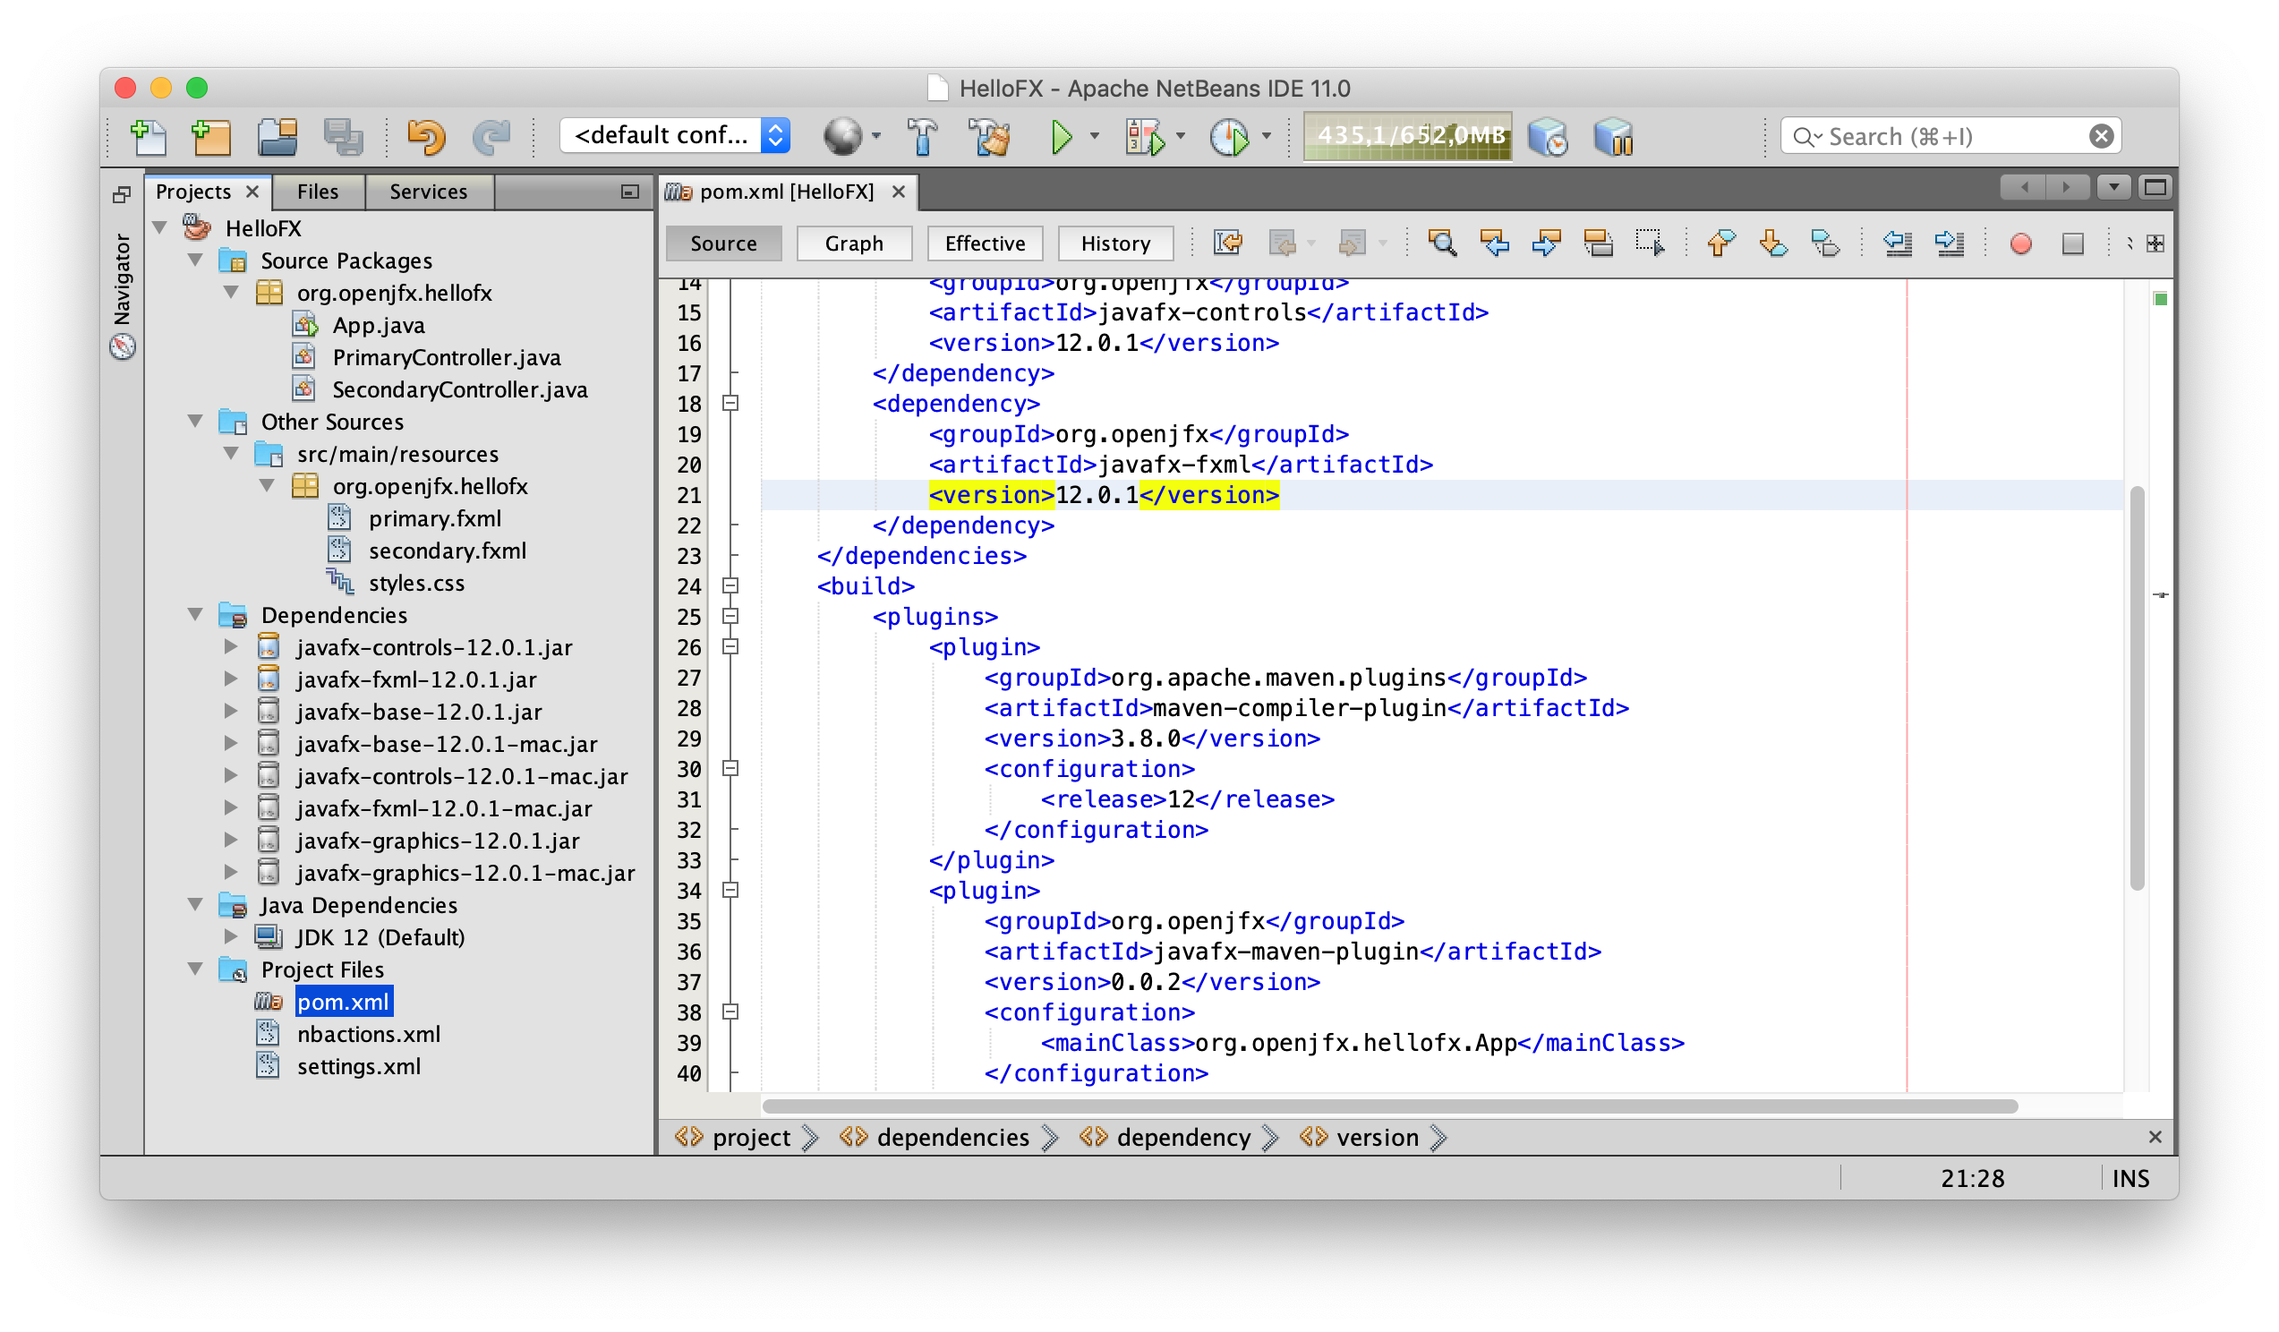
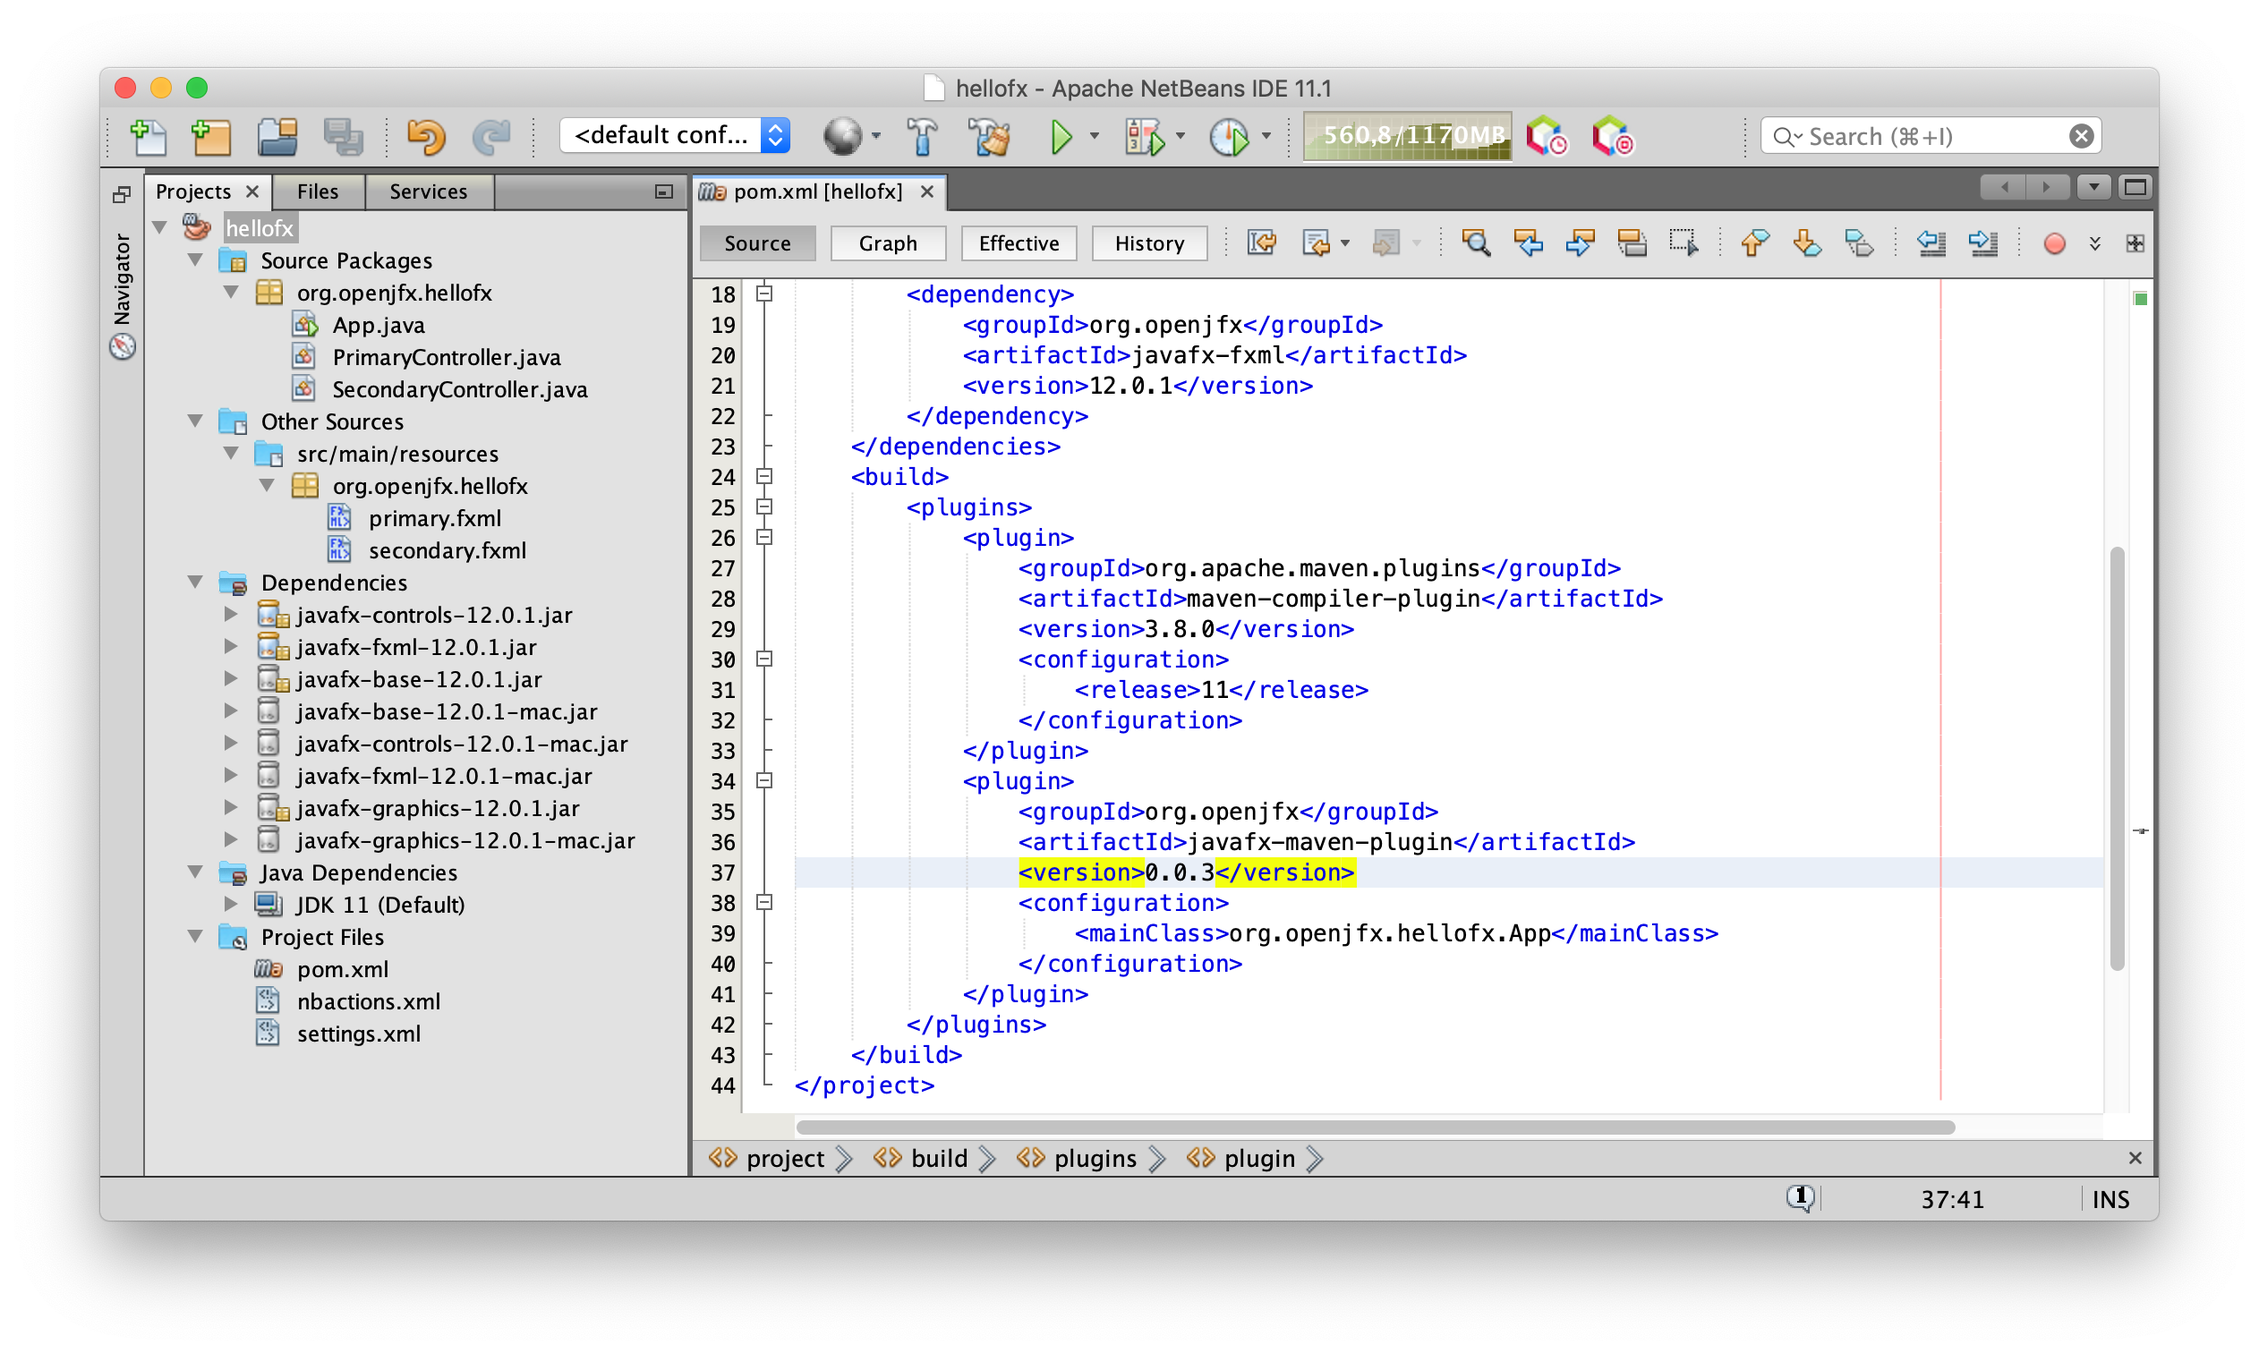
#107 Update docs with latest versions

diff --git a/ide-netbeans.html b/ide-netbeans.html
@@ -1,8 +1,8 @@
 <h2>JavaFX <span class="JFX_MAJOR">11</span> and NetBeans</h2>
 
 <p>This section explains how to use Java <span class="JDK_MAJOR">11</span> and JavaFX <span class="JFX_MAJOR">11</span> from NetBeans. 
-    Apache NetBeans 11.0 was used for the following screenshots. It can be downloaded from
-    <a href="https://netbeans.apache.org/download/nb110/nb110.html" target="_blank">here</a>.
+    Apache NetBeans 11.1 was used for the following screenshots. It can be downloaded from
+    <a href="https://netbeans.apache.org/download/nb111/nb111.html" target="_blank">here</a>.
 </p>
 
 <p>
@@ -123,39 +123,38 @@ Error: JavaFX runtime components are missing, and are required to run this appli
     
 <h5>5. Add VM options</h5>
 
-
 <p>
-    To solve the issue, go to <kbd>Properties -> Libraries -> Run -> Modulepath -> + -> Add Library </kbd> and
-    add the <kbd>JavaFX12</kbd> library.
-
-    <a href="images/ide/netbeans/ide/netbeans06.png" target="_blank"><img src="images/ide/netbeans/ide/netbeans06.png" alt="ModulePath"/></a>
-
-    Click OK.
-
+    To solve the issue, go to <kbd>Properties -> Run</kbd> and add these VM options:
 </p>
 
-<p>
-    Now go to <kbd>Properties -> Run</kbd> and add this VM option:
-</p>
 
-<pre><code>
---add-modules javafx.controls,javafx.fxml
+<ul class="nav nav-tabs">
+    <li class="nav-item">
+        <a class="nav-link active" href="#nix-nb-non-ide-1" data-toggle="tab">Linux/Mac</a>
+    </li>
+    <li class="nav-item">
+        <a class="nav-link" href="#win-nb-non-ide-1" data-toggle="tab">Windows</a>
+    </li>
+</ul>
+<div class="tab-content">
+    <div class="tab-pane active" id="nix-nb-non-ide-1">
+<pre class="no-border-radius"><code>
+--module-path /path/to/javafx-sdk-12/lib --add-modules javafx.controls,javafx.fxml
 </code></pre>
+    </div>
+    <div class="tab-pane" id="win-nb-non-ide-1">
+<pre><code>
+--module-path "\path\to\javafx-sdk-12\lib" --add-modules javafx.controls,javafx.fxml
+</code></pre>
+    </div>
+</div>
 
 <p>
-    <a href="images/ide/netbeans/ide/netbeans07.png" target="_blank"><img src="images/ide/netbeans/ide/netbeans07.png" alt="VM options"/></a>
+    <a href="images/ide/netbeans/ide/netbeans06.png" target="_blank"><img src="images/ide/netbeans/ide/netbeans06.png" alt="VM options"/></a>
 
     Click apply and close the dialog.
 
 </p>
-
-<div class="alert alert-danger">
-    <strong>Note: </strong>
-    If the <kbd>JavaFX12</kbd> library path is added to the <kbd>--module-path</kbd> VM option as explained
-    for the rest of the samples in these documents, the project won't run, since NetBeans will override
-    the module-path with an empty path. So that is why it has to be added to the <kbd>Libraries -> Run -> modulepath</kbd>
-    options instead.
-</div>
 
 <h5>6. Run the project</h5>
 
@@ -201,7 +200,7 @@ Error: JavaFX runtime components are missing, and are required to run this appli
 
 <p>
     Verify it includes the <kbd>javafx.controls</kbd> and <kbd>javafx.fxml</kbd> dependencies, update their version to <span class="JFX_VERSION">12</span>,
-    and verify it includes the <kbd>javafx-maven-plugin</kbd>. Note that Maven manages
+    and verify it includes the <kbd>javafx-maven-plugin</kbd> (update the version to <span class="JFX_MVN_PLUGIN_VERSION">0.0.1</span>). Note that Maven manages
     the required dependencies: it will add <kbd>javafx.base</kbd> and
     <kbd>javafx.graphics</kbd> that are required by <kbd>javafx.controls</kbd> and <kbd>javafx.fxml</kbd>,
     but most important, it will add the required classifier based on your platform, downloading
@@ -247,6 +246,10 @@ Error: JavaFX runtime components are missing, and are required to run this appli
     You can also open a terminal and run <kbd>mvn clean javafx:run</kbd> to run the project.
 </p>
 
+<p>Finally, note that you can get a similar built-in sample from <kbd>NetBeans -> File -> New Project... -> Samples -> OpenJFX</kbd></p>
+
+<a href="images/ide/netbeans/maven/netbeans06.png" target="_blank"><img src="images/ide/netbeans/maven/netbeans06.png" alt="NetBeans Maven Sample"/></a>
+
 <div id="NB-Gradle"></div><h4>Gradle</h4>
 
 <p>
@@ -287,7 +290,6 @@ Error: JavaFX runtime components are missing, and are required to run this appli
 </p>
 <pre><code>
 javafx {
-    version = "<span class="JFX_VERSION">12</span>"
     modules = [ 'javafx.controls', 'javafx.fxml' ]
 }
 </code></pre>
@@ -381,6 +383,8 @@ gradlew run
 <p>
     Go to <kbd>Properties -> Libraries -> Compile -> Module-path -> + -> Add Library </kbd> and 
     add the <kbd>JavaFX12</kbd> library.
+
+    <a href="images/ide/netbeans/modular/ide/netbeans00.png" target="_blank"><img src="images/ide/netbeans/modular/ide/netbeans00.png" alt="JavaFX12 Library"/></a>
 </p>
 
 <h5>3. Edit the module-info class</h5>
@@ -485,6 +489,7 @@ dist\jlink\HelloFX\bin\HelloFX
 
     <a href="images/ide/netbeans/modular/maven/netbeans03.png" target="_blank"><img src="images/ide/netbeans/modular/maven/netbeans03.png" alt="Archetype options"/></a>
 
+    Update the JavaFX version to <span class="JFX_VERSION">12</span> and the plugin version to <span class="JFX_MVN_PLUGIN_VERSION">0.0.1</span>.
     Click finish and the project will be created and opened.
 </p>
 
@@ -495,7 +500,7 @@ dist\jlink\HelloFX\bin\HelloFX
 </p>
 
 <p>
-    Verify it includes the <kbd>javafx.controls</kbd> and <kbd>javafx.fxml</kbd> dependencies, update their version to <span class="JFX_VERSION">12</span>,
+    Verify it includes the <kbd>javafx.controls</kbd> and <kbd>javafx.fxml</kbd> dependencies,
     and verify it includes the <kbd>javafx-maven-plugin</kbd>. Note that Maven manages
     the required dependencies: it will add <kbd>javafx.base</kbd> and
     <kbd>javafx.graphics</kbd> that are required by <kbd>javafx.controls</kbd> and <kbd>javafx.fxml</kbd>,
@@ -586,6 +591,10 @@ target\hellofx\bin\launcher
     </div>
 </div>
 
+<p>Finally, note that you can get a similar built-in sample from <kbd>NetBeans -> File -> New Project... -> Samples -> OpenJFX</kbd></p>
+
+<a href="images/ide/netbeans/maven/netbeans06.png" target="_blank"><img src="images/ide/netbeans/maven/netbeans06.png" alt="NetBeans Maven Sample"/></a>
+
 <div id="NB-Mod-Gradle"></div><h4>Gradle</h4>
 
 <p>
@@ -596,36 +605,39 @@ target\hellofx\bin\launcher
 
 <h5>1. Create a Gradle project</h5>
 
-<div class="alert alert-danger">
-    <strong>Note: </strong>
-    The built-in Gradle plugin doesn't support modular projects with external modular dependencies yet.
-    You can either uninstall it or
-    keep <a href="https://netbeans.apache.org/download/nb100/nb100.html">NetBeans 10</a> installed, and then
-    install the Gradle plugin for NetBeans 2.0.2, from the GitHub
-    <a href="https://github.com/kelemen/netbeans-gradle-project/releases" target="_blank">repository</a>.
-    Since the former requires administrator permissions and doesn't allow switching plugins easily, the latter is the
-    recommended option.
-</div>
-
 <p>
-    Create a <kbd>Gradle -> Single Gradle Project</kbd> with Java.
+    Create a <kbd>Java with Gradle -> Java Application</kbd> project.
+    <a href="images/ide/netbeans/gradle/netbeans01.png" target="_blank"><img src="images/ide/netbeans/gradle/netbeans01.png" alt="Create a Gradle project"/></a>
 
-    <a href="images/ide/netbeans/modular/gradle/netbeans00.png" target="_blank"><img src="images/ide/netbeans/modular/gradle/netbeans00.png" alt="Single Gradle project"/></a>
+    Provide the name of the project, like <kbd>HelloFX</kbd> and a location for the project, provide
+    the package name, like <kbd>org.openjfx</kbd> and the main class, like <kbd>MainApp</kbd>. Finally, select
+    <kbd>Initialize Gradle Wrapper</kbd>.
 
-    Then provide a name to the project, like <kbd>HelloFX</kbd>, a location for the project, and the main class name: <kbd>org.openjfx.MainApp</kbd>.
+    The project is created and opened.
 </p>
 
 <h5>2. Modify the build</h5>
 
 <p>
-    Edit the <kbd>build.gradle</kbd> file and replace it with this 
+    Edit the <kbd>build.gradle</kbd> file and replace it with this
     <a class="samples" href="https://github.com/openjfx/samples/blob/master/IDE/NetBeans/Modular/Gradle/hellofx/build.gradle" target="_blank">build</a> file.
 </p>
 <p>
-    Note the use of the <kbd>org.openjfx.javafxplugin</kbd> plugin, that removes the necessity of adding the 
-    JavaFX dependencies and setting the module-path for the compile and run task for them.
-    
-    <a href="images/ide/netbeans/modular/gradle/netbeans01.png" target="_blank"><img src="images/ide/netbeans/modular/gradle/netbeans01.png" alt="Update the build"/></a>
+    We can declare the required JavaFX modules in the <kbd>build.gradle</kbd> file using the JavaFX gradle plugin:
+</p>
+
+<pre><code>
+javafx {
+    modules = [ 'javafx.controls', 'javafx.fxml' ]
+}
+</code></pre>
+
+<p>
+    Save the project and you will get the JavaFX dependencies.
+
+    <a href="images/ide/netbeans/gradle/netbeans02.png" target="_blank"><img src="images/ide/netbeans/gradle/netbeans02.png" alt="Update the build"/></a>
+
+    As for any other Gradle dependencies, these jars can be found in the local <kbd>.gradle</kbd> repository.
 </p>
 
 <h5>3. Add the module-info class</h5>
@@ -635,7 +647,7 @@ target\hellofx\bin\launcher
     Since FXML uses reflection to access the controller in the module, this has to be opened to <kbd>javafx.fxml</kbd>. Finally,
     export the package <kbd>org.openjfx</kbd>.
     
-    <a href="images/ide/netbeans/modular/gradle/netbeans02.png" target="_blank"><img src="images/ide/netbeans/modular/gradle/netbeans02.png" alt="module-info"/></a>
+    <a href="images/ide/netbeans/modular/gradle/netbeans03.png" target="_blank"><img src="images/ide/netbeans/modular/gradle/netbeans03.png" alt="module-info"/></a>
 
     Reload the project to take into account all the changes in the gradle project.
 </p>
@@ -648,6 +660,9 @@ target\hellofx\bin\launcher
     and the <a class="samples" href="https://github.com/openjfx/samples/blob/master/IDE/NetBeans/Modular/Gradle/hellofx/src/main/resources/org/openjfx/scene.fxml" target="_blank">FXML</a> and 
     the <a class="samples" href="https://github.com/openjfx/samples/blob/master/IDE/NetBeans/Modular/Gradle/hellofx/src/main/resources/org/openjfx/styles.css" target="_blank">css</a>
     files.
+
+    <a href="images/ide/netbeans/modular/gradle/netbeans04.png" target="_blank"><img src="images/ide/netbeans/modular/gradle/netbeans04.png" alt="Source files"/></a>
+
 </p>
 
 <h5>5. Run the project</h5>
@@ -695,7 +710,6 @@ plugins {
 }
 
 javafx {
-    version = "<span class="JFX_VERSION">12</span>"
     modules = [ 'javafx.controls', 'javafx.fxml' ]
 }
 

diff --git a/ide-eclipse.html b/ide-eclipse.html
@@ -197,7 +197,8 @@ is not selected.
     <a href="images/ide/eclipse/maven/eclipse02.png" target="_blank"><img src="images/ide/eclipse/maven/eclipse02.png" alt="JavaFX Maven archetypes"/></a>
 
     Provide the groupId, like <kbd>org.openjfx</kbd>, the artifactId, like <kbd>hellofx</kbd>.
-    You can edit the <kbd>javafx-version</kbd> property, and set it to <span class="JFX_VERSION">11</span>.
+    You can edit the <kbd>javafx-version</kbd> property, and set it to <span class="JFX_VERSION">11</span>,
+    and the plugin version to <span class="JFX_MVN_ARCH_VERSION">0.0.1</span>.
 
     <a href="images/ide/eclipse/maven/eclipse03.png" target="_blank"><img src="images/ide/eclipse/maven/eclipse03.png" alt="JavaFX FXML archetype"/></a>
 
@@ -338,7 +339,6 @@ If that is not possible, another workaround is to add this VM argument to the ja
 </p>
 <pre><code>
 javafx {
-    version = "<span class="JFX_VERSION">12</span>"
     modules = [ 'javafx.controls', 'javafx.fxml' ]
 }
 </code></pre>
@@ -579,7 +579,8 @@ jre\bin\java -m hellofx/org.openjfx.MainApp
     <a href="images/ide/eclipse/modular/maven/eclipse02.png" target="_blank"><img src="images/ide/eclipse/modular/maven/eclipse02.png" alt="JavaFX Maven archetypes"/></a>
 
     Provide the groupId, like <kbd>org.openjfx</kbd>, the artifactId, like <kbd>hellofx</kbd>.
-    You can edit the <kbd>javafx-version</kbd> property, and set it to <span class="JFX_VERSION">11</span>.
+    You can edit the <kbd>javafx-version</kbd> property, and set it to <span class="JFX_VERSION">11</span>,
+    and the plugin version to <span class="JFX_MVN_ARCH_VERSION">0.0.1</span>.
 
     <a href="images/ide/eclipse/modular/maven/eclipse03.png" target="_blank"><img src="images/ide/eclipse/modular/maven/eclipse03.png" alt="JavaFX FXML archetype"/></a>
 
@@ -839,7 +840,6 @@ plugins {
 }
 
 javafx {
-    version = "<span class="JFX_VERSION">12</span>"
     modules = [ 'javafx.controls', 'javafx.fxml' ]
 }
 

diff --git a/modular.html b/modular.html
@@ -307,7 +307,6 @@ plugins {
 }
 
 javafx {
-    version = "<span class="JFX_VERSION">12</span>"
     modules = [ 'javafx.controls' ]
 }
 
@@ -377,13 +376,17 @@ build\image\bin\hellofx
     <div class="tab-pane active" id="nix-jdkfx">
 <pre class="no-border-radius"><code>
 export PATH_TO_FX_MODS=path/to/javafx-jmods-<span class="JFX_VERSION">11</span>
-$JAVA_HOME/bin/jlink --module-path $PATH_TO_FX_MODS --add-modules java.se,javafx.fxml,javafx.web,javafx.media,javafx.swing --bind-services --output /path/to/jdkfx-<span class="JFX_VERSION">11</span>.jdk
+$JAVA_HOME/bin/jlink --module-path $PATH_TO_FX_MODS \
+    --add-modules java.se,javafx.fxml,javafx.web,javafx.media,javafx.swing \
+    --bind-services --output /path/to/jdkfx-<span class="JFX_VERSION">11</span>.jdk
 </code></pre>
     </div>
     <div class="tab-pane" id="win-jdkfx">
 <pre><code>
 set PATH_TO_FX_MODS="path\to\javafx-jmods-<span class="JFX_VERSION">11</span>"
-%JAVA_HOME%\bin\jlink --module-path %PATH_TO_FX_MODS% --add-modules java.se,javafx.fxml,javafx.web,javafx.media,javafx.swing --bind-services --output \path\to\jdkfx-<span class="JFX_VERSION">11</span>
+%JAVA_HOME%\bin\jlink --module-path %PATH_TO_FX_MODS% \
+    --add-modules java.se,javafx.fxml,javafx.web,javafx.media,javafx.swing \
+    --bind-services --output \path\to\jdkfx-<span class="JFX_VERSION">11</span>
 </code></pre>
     </div>
 </div>

diff --git a/ide-intellij.html b/ide-intellij.html
@@ -256,7 +256,6 @@ Error: JavaFX runtime components are missing, and are required to run this appli
 </p>
 <pre><code>
 javafx {
-    version = "<span class="JFX_VERSION">12</span>"
     modules = [ 'javafx.controls', 'javafx.fxml' ]
 }
 </code></pre>
@@ -519,7 +518,7 @@ jre\bin\java -m hellofx/org.openjfx.MainApp
     and run <kbd>mvn clean compile package javafx:run</kbd>.
 </p>
 
-<h5>6. Create a custom runtime image</h5>
+<h5>4. Create a custom runtime image</h5>
 
 <p>
     To create a custom runtime, using the <a href="https://github.com/openjfx/javafx-maven-plugin" target="_blank">JavaFX Maven plugin</a>,
@@ -661,7 +660,6 @@ plugins {
 }
 
 javafx {
-    version = "<span class="JFX_VERSION">12</span>"
     modules = [ 'javafx.controls', 'javafx.fxml' ]
 }
 

diff --git a/js/gluon.js b/js/gluon.js
@@ -3,12 +3,12 @@ $(function() {
     var JDK_MAJOR = "12";
     var JFX_MAJOR = "12";
     
-    var JDK_VERSION = "12.0.1";
+    var JDK_VERSION = "12.0.2";
     var JFX_VERSION = "12.0.1";
-    var JFX_PLUGIN_VERSION = "0.0.7";
-    var JFX_MVN_PLUGIN_VERSION = "0.0.2";
+    var JFX_PLUGIN_VERSION = "0.0.8";
+    var JFX_MVN_PLUGIN_VERSION = "0.0.3";
     var JFX_MVN_ARCH_VERSION = "0.0.1";
-    var JLINK_PLUGIN_VERSION = "2.10.2";
+    var JLINK_PLUGIN_VERSION = "2.12.0";
 
     var nav_top = 70;
         

diff --git a/install-java.html b/install-java.html
@@ -14,9 +14,9 @@
 
 <pre><code>
 $ java -version
-openjdk version "12.0.1" 2019-04-16
-OpenJDK Runtime Environment (build 12.0.1+12)
-OpenJDK 64-Bit Server VM (build 12.0.1+12, mixed mode, sharing)
+openjdk version "12.0.2" 2019-07-16
+OpenJDK Runtime Environment (build 12.0.2+10)
+OpenJDK 64-Bit Server VM (build 12.0.2+10, mixed mode, sharing)
 </code></pre>
 
 <p>

diff --git a/gradle.html b/gradle.html
@@ -19,7 +19,6 @@ plugins {
 
 <pre><code>
 javafx {
-    version = "<span class="JFX_VERSION">12</span>"
     modules = [ 'javafx.controls' ]
 }
 </code></pre>
